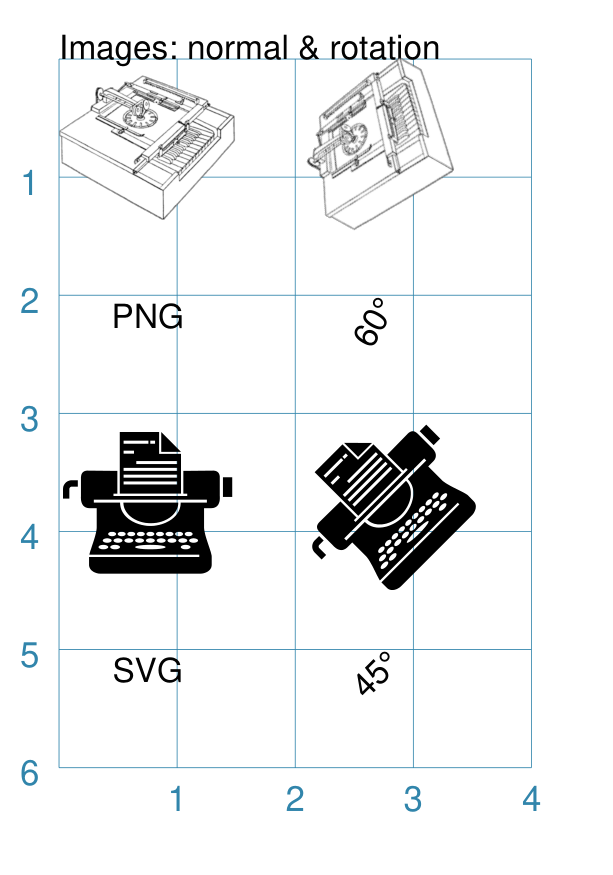
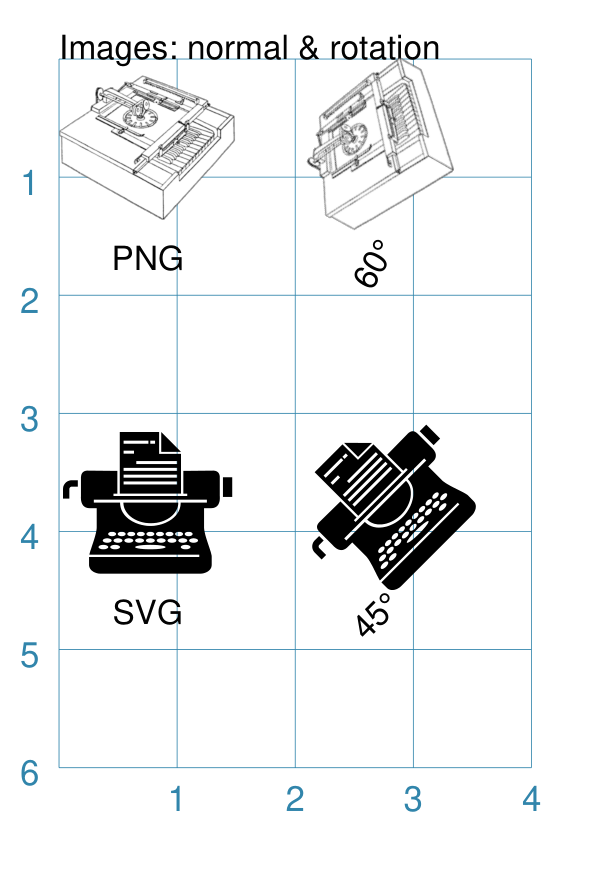
Patch Image label centering. Update docs with example

diff --git a/examples/core/customised_shapes.py b/examples/core/customised_shapes.py
@@ -727,6 +727,24 @@ Image("sholes_typewriter.png", sliced='b',
       width=3, height=1, x=1.25, y=5)
 PageBreak()
 
+# ---- image - label heading title
+Blueprint()
+Text(common=txt, text="Image: label, heading, title")
+Rectangle(width=2.26, height=2, x=1, y=0.5,
+          dotted=True, fill="silver")
+Image("sholes_typewriter.png",
+      width=2.26, height=2, x=1, y=0.5,
+      label="Label", label_stroke='red',
+      cross=True)
+Rectangle(width=2.26, height=2, x=1, y=3.5,
+          dotted=True, fill="silver")
+Image("sholes_typewriter.png",
+      width=2.26, height=2, x=1, y=3.5,
+      heading="Heading",
+      title="Title",
+      dot=0.1, dot_stroke='red')
+PageBreak()
+
 # ---- shape rotation
 Blueprint()
 Text(common=txt, text="Rotation (cross & label)")
@@ -828,7 +846,8 @@ Save(
         "arrow_sizes", "arrow_rotate", "arrowheads",
         "polyline_basic", "polyline_arrow",
         "shape_centred", "shape_centred_move", "shape_centred_custom",
-        "qr_code", "image_sliced",
+        "qr_code",
+        "image_sliced", "image_label",
         "shape_rotation", "shape_hatch_and_rotation",
         "table_defaults", "table_custom",
         None])

diff --git a/protograf/shapes.py b/protograf/shapes.py
@@ -132,13 +132,17 @@ class ImageShape(BaseShape):
                     f"Unable to load image - no name provided",
                     True,
                 )
+        # ---- centre
+        x_c = x + width / 2.0
+        y_c = y + height / 2.0
+        # ---- cross
+        self.draw_cross(cnv, x_c, y_c, rotation=kwargs.get("rotation"))
+        # ---- dot
+        self.draw_dot(cnv, x_c, y_c)
         # ---- text
-        xc = x + width / 2.0
-        yc = y + height / 2.0
-        _off = self.heading_size / 2.0
-        self.draw_heading(cnv, ID, xc, yc - height / 2.0 - _off, **kwargs)
-        self.draw_label(cnv, ID, xc, yc + _off, **kwargs)
-        self.draw_title(cnv, ID, xc, yc + height / 2.0 + _off * 3.5, **kwargs)
+        self.draw_heading(cnv, ID, x_c, y_c - height / 2.0, **kwargs)
+        self.draw_label(cnv, ID, x_c, y_c, **kwargs)
+        self.draw_title(cnv, ID, x_c, y_c + height / 2.0, **kwargs)
 
 
 class ArcShape(BaseShape):

diff --git a/docs/source/core_shapes.rst b/docs/source/core_shapes.rst
@@ -94,7 +94,7 @@ PNG images that were generated from the original PDF output.
    scripts;
    `default_shapes <https://github.com/gamesbook/protograf/blob/master/examples/simple/default_shapes.py>`_ or
    `customised_shapes <https://github.com/gamesbook/protograf/blob/master/examples/simple/customised_shapes.py>`_.
-   The program first creates a PDF, then generates a PNG file for each page
+   **protograf** first creates a PDF, then generates a PNG file for each page
    in the PDF.
 
 Commonalities
@@ -107,7 +107,7 @@ at the end, rather than being described in detail for every single shape.
 
 .. HINT::
 
-   Bear in mind that if a property that it does not support is
+   Bear in mind that if a property that it does **not** support is
    provided for a shape, then that property and its value will simply be
    ignored.
 
@@ -1330,13 +1330,14 @@ Example 1. Default Polyshape
 
       .. code:: python
 
-        Polyshape(points=[(1, 2), (1, 1), (2, 0), (3, 1), (3, 2)])
+        Polyshape(
+          points=[(1, 2), (1, 1), (2, 0), (3, 1), (3, 2)])
 
       It has the following properties:
 
-      - starts at x-position ``1`` cm and at y-position ``2`` cm
-      - second point is at x-position ``1`` cm and at y-position ``1`` cm
-      - third point is at x-position ``2`` cm and at y-position ``0`` cm
+      - starts at x-position ``1`` cm and y-position ``2`` cm
+      - second point is at x-position ``1`` cm and y-position ``1`` cm
+      - third point is at x-position ``2`` cm and y-position ``0`` cm
       - etc.
 
       The *points* for a Polyshape which represent its vertices are given in a
@@ -2518,7 +2519,8 @@ it does not consist of lines and areas drawn by **protograf** itself.
 An "image" refers to an external file which is simply inserted into the drawing.
 
 The Image shape shares a number of common aspects with other shapes - such as
-an x & y position, a width and a height, and the ability to be rotated.
+an x & y position, a width and a height, the ability to be rotated, and the
+setting of labl, heading or title text.
 
 An image can have its corners rounded by setting a value for ``rounding``.
 Be aware this is a pixel-based value and does not correspond to the units
@@ -2528,8 +2530,10 @@ An image can also be "drawn over" by other shapes appearing later on in the
 script.
 
 If an image has a transparent area, this will be respected and shapes
-appearing earlier on in the script may then be visible "below" it.
+appearing earlier on in the script may then be visible "below" it (see
+example below).
 
+.. _image-default:
 
 Example 1. Default Image
 ++++++++++++++++++++++++
@@ -2569,6 +2573,8 @@ Example 1. Default Image
       those of the image itself.
 
 ===== ======
+
+.. _image-rotation:
 
 Example 2. Rotation & Scaling
 +++++++++++++++++++++++++++++
@@ -2617,14 +2623,60 @@ Example 2. Rotation & Scaling
 
 ===== ======
 
-Example 3. Sliced
-+++++++++++++++++
+.. _image-caption:
 
-.. |im3| image:: images/customised/image_sliced.png
+Example 3. Captions and Markings
+++++++++++++++++++++++++++++++++
+
+.. |im3| image:: images/customised/image_label.png
    :width: 330
 
 ===== ======
 |im3| This example shows the shape constructed using the command with the
+      following properties:
+
+      .. code:: python
+
+        Text(common=txt, text="Image: label, heading, title")
+        Rectangle(
+            width=2.26, height=2, x=1, y=0.5,
+            dotted=True, fill="silver")
+        Image("sholes_typewriter.png",
+              width=2.26, height=2, x=1, y=0.5,
+              label="Label", label_stroke='red',
+              cross=True)
+        Rectangle(
+            width=2.26, height=2, x=1, y=3.5,
+            dotted=True, fill="silver")
+        Image("sholes_typewriter.png",
+              width=2.26, height=2, x=1, y=3.5,
+              heading="Heading",
+              title="Title",
+              dot=0.1, dot_stroke='red')
+
+      In this example, a grey-filled rectangle, with dotted border, is
+      drawn just prior to the image.
+
+      The same image is used in two places here to demonstrate the following:
+
+      - how a "background" or "lower level" shape is visible through the
+        transparency of a PNG image;
+      - where the label, heading and title for an image will appear;
+      - where the cross for an image will appear;
+      - where the dot for an image will appear.
+
+===== ======
+
+.. _image-sliced:
+
+Example 4. Sliced
++++++++++++++++++
+
+.. |im4| image:: images/customised/image_sliced.png
+   :width: 330
+
+===== ======
+|im4| This example shows the shape constructed using the command with the
       following properties:
 
       .. code:: python
